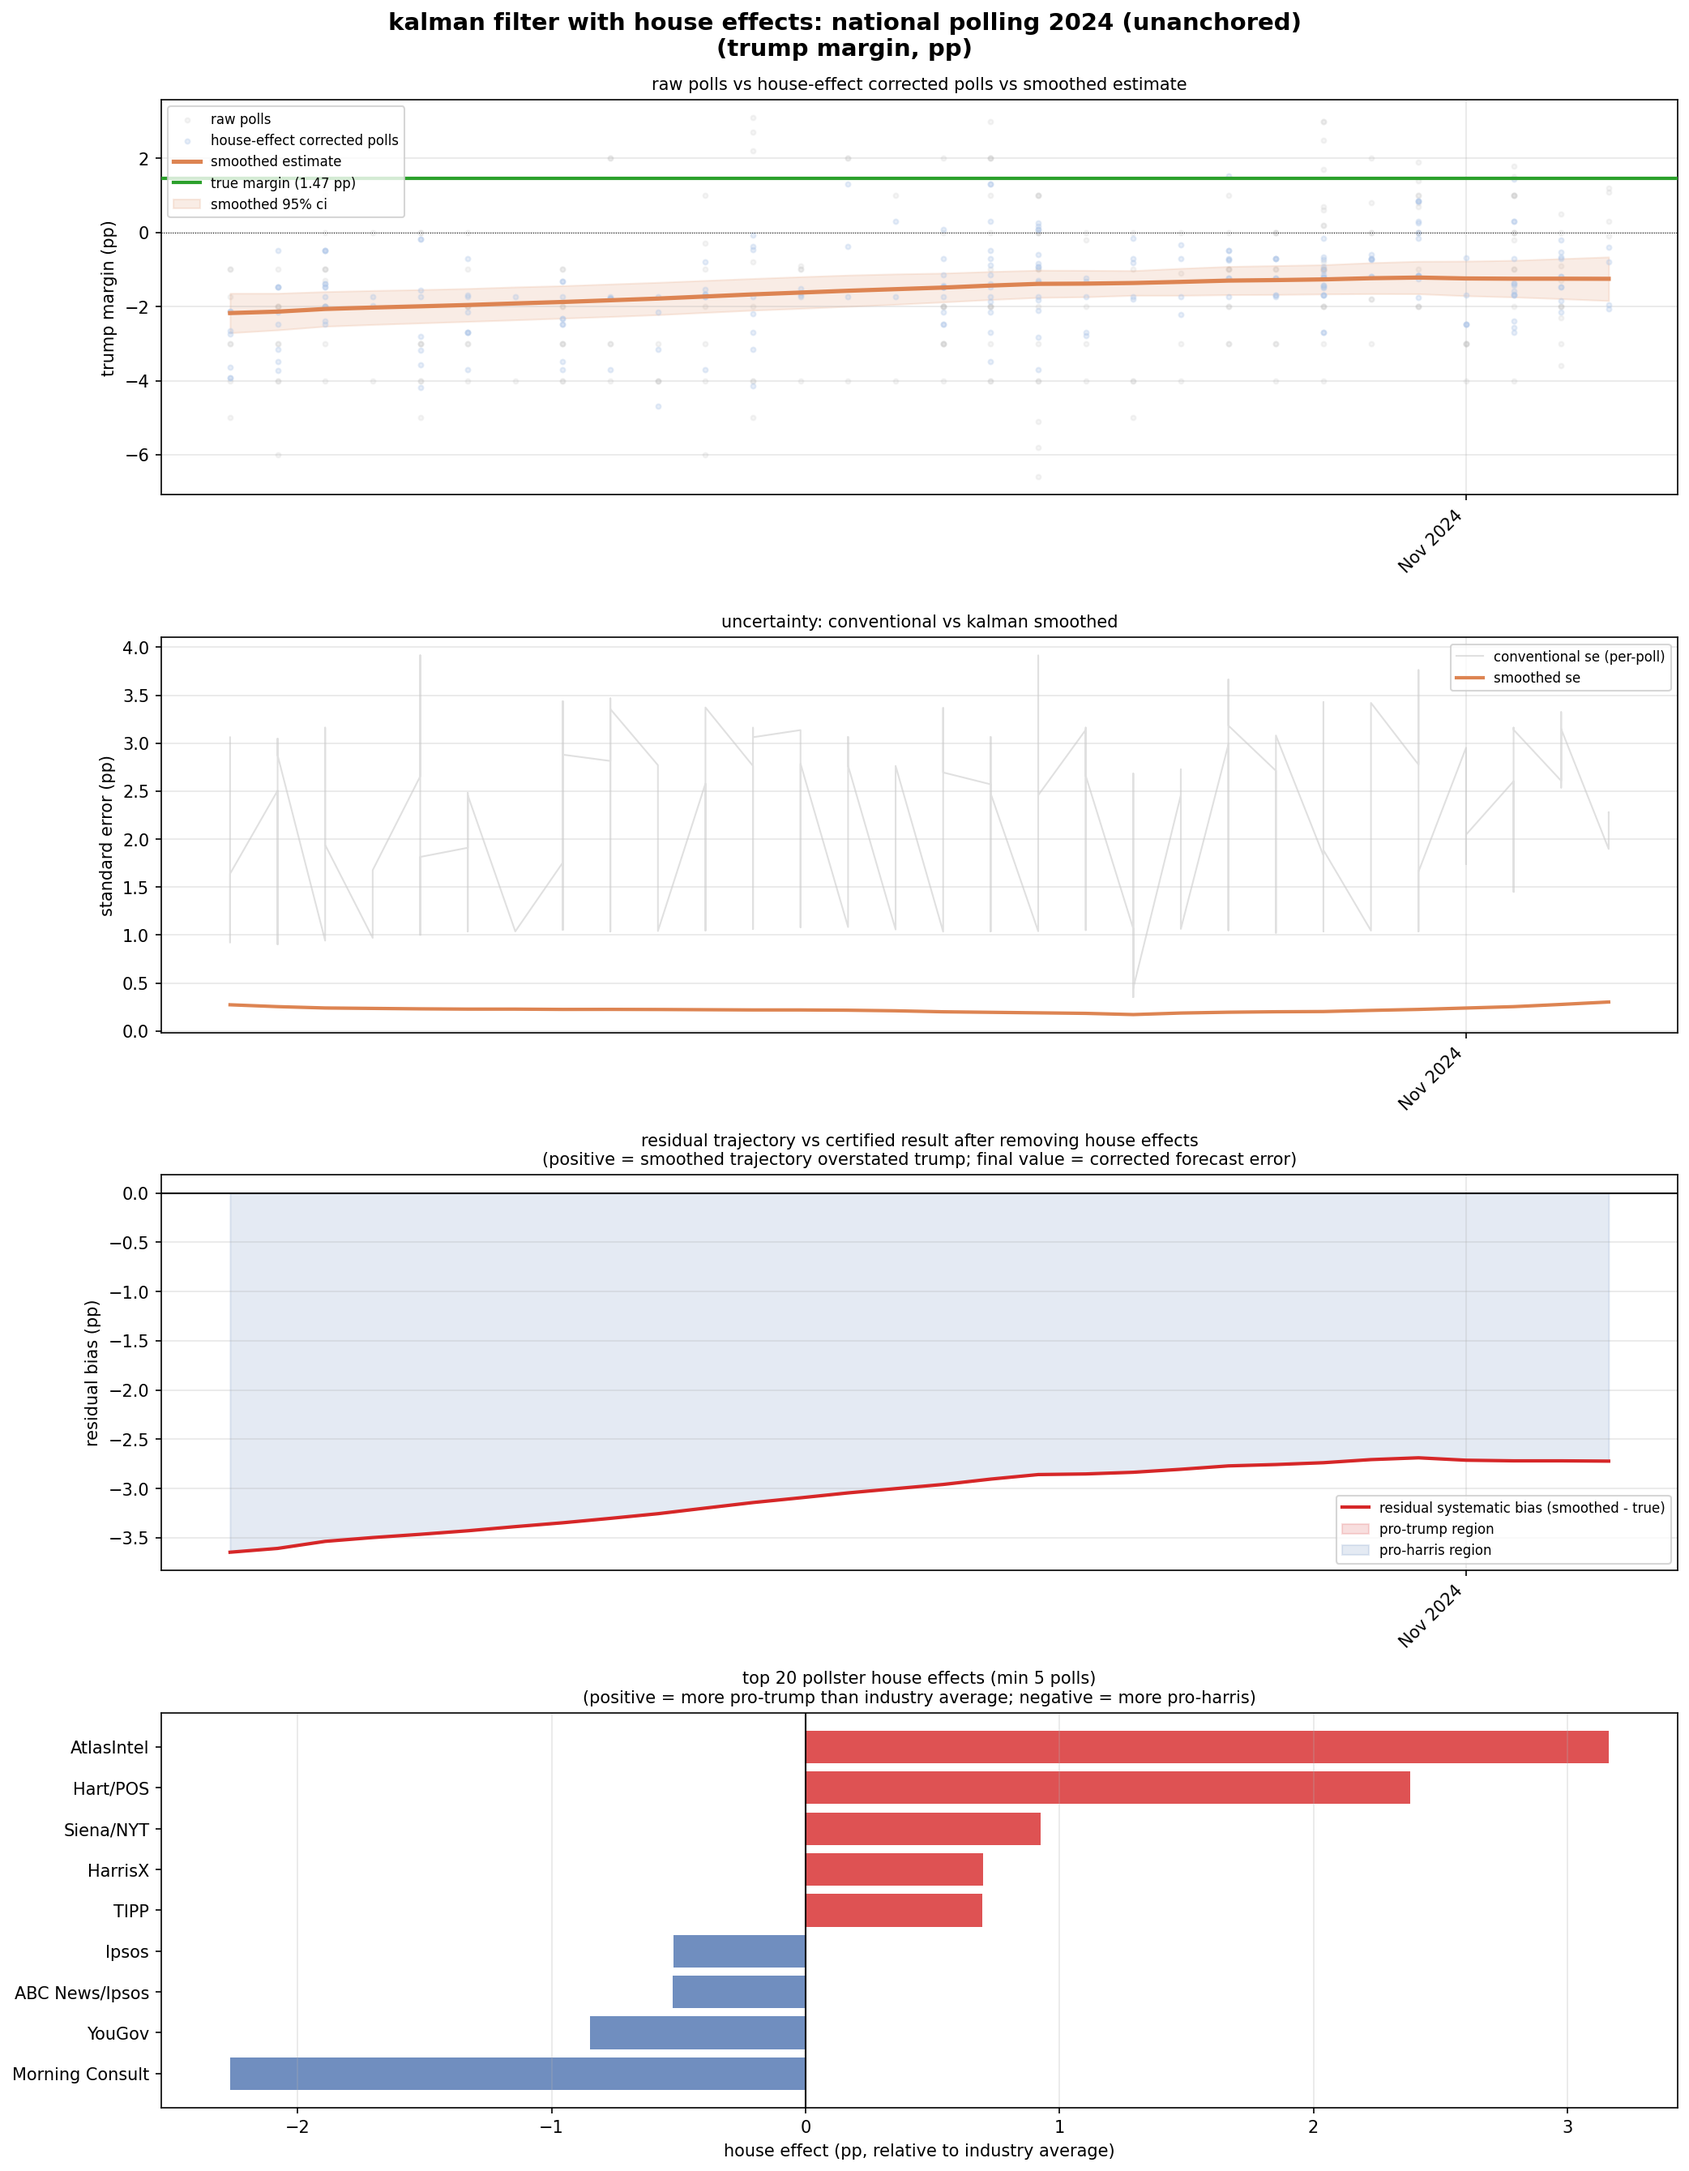
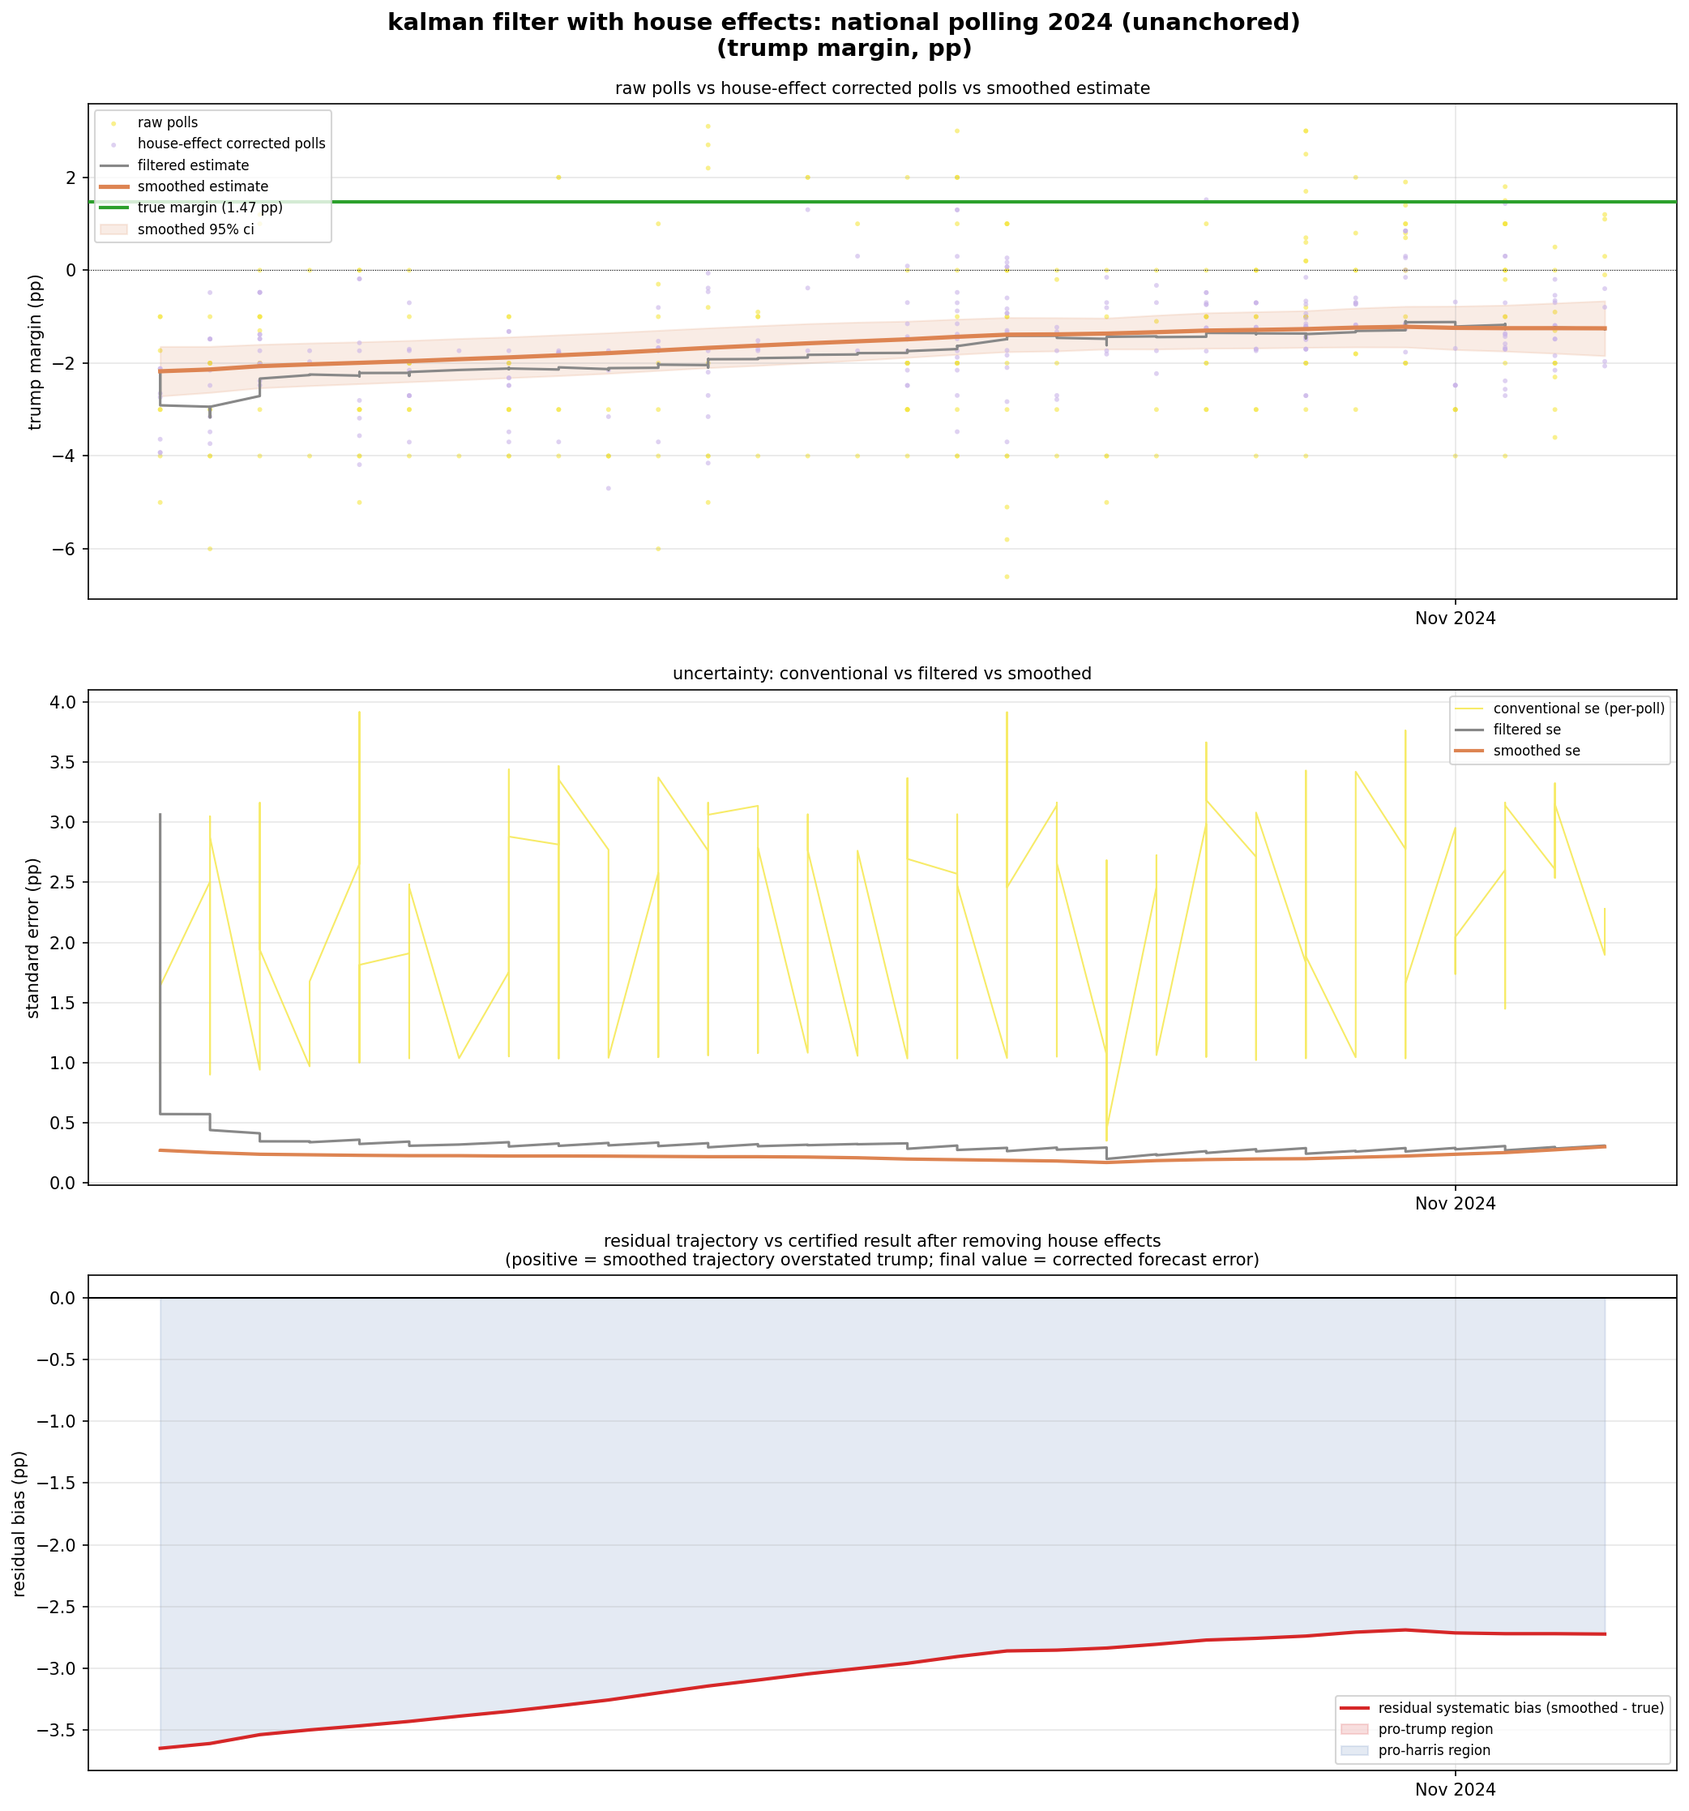
additional kalman graphs national

diff --git a/kalman_national_pollstereffects_harrisonly_analysis.py b/kalman_national_pollstereffects_harrisonly_analysis.py
@@ -582,38 +582,54 @@ def summarize_results(df: pd.DataFrame, house_effects_df: pd.DataFrame,
 def plot_results(df: pd.DataFrame, house_effects_df: pd.DataFrame,
                  anchored: bool = True, save_path: str = None) -> None:
     """
-    four-panel figure:
-      panel 1: raw polls, corrected polls, smoothed estimate, true margin
-      panel 2: standard errors — conventional vs smoothed
-      panel 3: residual systematic bias over time (after house effects removed)
-      panel 4: top 20 house effects by absolute size (bar chart)
+    two separate figures:
+      figure 1 (three panels): raw polls, corrected polls, smoothed + filtered estimates,
+                               standard errors, residual systematic bias
+      figure 2 (one panel):   top 20 house effects by absolute size (bar chart)
+
+    changes from prior version:
+      - filtered line added to panels 1 and 2 as a dotted line
+      - raw polls colored pale yellow, house-effect corrected polls colored pale purple
+      - x-axis labels show every month, horizontal (not rotated)
+      - house effects panel saved as a separate figure
     """
     results = df[df['pollster_id'] != -1].copy()
     true_margin = results['true_margin'].iloc[0]
 
-    fig, axes = plt.subplots(4, 1, figsize=(14, 18), sharex=False)
     mode_label = "anchored" if anchored else "unanchored"
+
+    colors = {
+        'raw':      '#f5e642',   # pale yellow for raw polls
+        'corrected':'#c9b3e8',   # pale purple for corrected polls
+        'filtered': '#888888',   # medium gray for filtered line
+        'smoothed': '#DD8452',   # orange for smoothed
+        'true':     '#2ca02c',   # green for true margin
+        'bias':     '#d62728',   # red for bias
+    }
+
+    dates = results['end_date']
+
+    ########################################################################
+    # figure 1: three-panel main figure
+    ########################################################################
+    fig, axes = plt.subplots(3, 1, figsize=(14, 15), sharex=False)
     fig.suptitle(
         f'kalman filter with house effects: national polling 2024 ({mode_label})\n(trump margin, pp)',
         fontsize=14, fontweight='bold', y=0.99
     )
 
-    dates  = results['end_date']
-    colors = {
-        'raw':      '#cccccc',
-        'corrected':'#aec6e8',
-        'smoothed': '#DD8452',
-        'true':     '#2ca02c',
-        'bias':     '#d62728',
-    }
-
-    # panel 1: raw polls, corrected polls, smoothed, true
+    # panel 1: raw polls, corrected polls, filtered (dotted), smoothed, true
     ax1 = axes[0]
     ax1.scatter(dates, results['poll_margin'],
-                color=colors['raw'], alpha=0.2, s=8, label='raw polls', zorder=1)
+                color=colors['raw'], alpha=0.6, s=8, label='raw polls',
+                edgecolors='none', zorder=1)
     ax1.scatter(dates, results['corrected_margin'],
-                color=colors['corrected'], alpha=0.3, s=8,
-                label='house-effect corrected polls', zorder=2)
+                color=colors['corrected'], alpha=0.6, s=8,
+                label='house-effect corrected polls',
+                edgecolors='none', zorder=2)
+    ax1.plot(dates, results['filtered'],
+             color=colors['filtered'], linewidth=1.5, linestyle='-',
+             label='filtered estimate', zorder=3)
     ax1.plot(dates, results['smoothed'],
              color=colors['smoothed'], linewidth=2.5,
              label='smoothed estimate', zorder=4)
@@ -629,26 +645,28 @@ def plot_results(df: pd.DataFrame, house_effects_df: pd.DataFrame,
     ax1.set_title('raw polls vs house-effect corrected polls vs smoothed estimate', fontsize=10)
     ax1.grid(True, alpha=0.3)
     ax1.xaxis.set_major_formatter(mdates.DateFormatter('%b %Y'))
-    ax1.xaxis.set_major_locator(mdates.MonthLocator(interval=2))
-    plt.setp(ax1.xaxis.get_majorticklabels(), rotation=45, ha='right')
+    ax1.xaxis.set_major_locator(mdates.MonthLocator(interval=1))
+    plt.setp(ax1.xaxis.get_majorticklabels(), rotation=0, ha='center')
 
-    # panel 2: standard errors
+    # panel 2: standard errors — conventional, filtered, smoothed
     ax2 = axes[1]
     conv_se = results['sampling_var'].apply(np.sqrt)
-    ax2.plot(dates, conv_se, color=colors['raw'], linewidth=1, alpha=0.6,
+    ax2.plot(dates, conv_se, color=colors['raw'], linewidth=1, alpha=0.8,
              label='conventional se (per-poll)')
+    ax2.plot(dates, results['filtered_se'],
+             color=colors['filtered'], linewidth=1.5, linestyle='-',
+             label='filtered se')
     ax2.plot(dates, results['smoothed_se'], color=colors['smoothed'], linewidth=2,
              label='smoothed se')
     ax2.set_ylabel('standard error (pp)', fontsize=10)
     ax2.legend(fontsize=8)
-    ax2.set_title('uncertainty: conventional vs kalman smoothed', fontsize=10)
+    ax2.set_title('uncertainty: conventional vs filtered vs smoothed', fontsize=10)
     ax2.grid(True, alpha=0.3)
     ax2.xaxis.set_major_formatter(mdates.DateFormatter('%b %Y'))
-    ax2.xaxis.set_major_locator(mdates.MonthLocator(interval=2))
-    plt.setp(ax2.xaxis.get_majorticklabels(), rotation=45, ha='right')
+    ax2.xaxis.set_major_locator(mdates.MonthLocator(interval=1))
+    plt.setp(ax2.xaxis.get_majorticklabels(), rotation=0, ha='center')
 
-    # panel 3: residual systematic bias (the industry-wide component after house effects removed)
-    # this is the bias that no individual pollster correction can fix — it's shared by all
+    # panel 3: residual systematic bias
     ax3 = axes[2]
     ax3.plot(dates, results['residual_systematic_bias'],
              color=colors['bias'], linewidth=2,
@@ -676,20 +694,32 @@ def plot_results(df: pd.DataFrame, house_effects_df: pd.DataFrame,
         )
     ax3.grid(True, alpha=0.3)
     ax3.xaxis.set_major_formatter(mdates.DateFormatter('%b %Y'))
-    ax3.xaxis.set_major_locator(mdates.MonthLocator(interval=2))
-    plt.setp(ax3.xaxis.get_majorticklabels(), rotation=45, ha='right')
+    ax3.xaxis.set_major_locator(mdates.MonthLocator(interval=1))
+    plt.setp(ax3.xaxis.get_majorticklabels(), rotation=0, ha='center')
 
-    # panel 4: house effects bar chart (top 20 by absolute size, min 5 polls)
-    # positive = pollster systematically overstates trump relative to industry average
-    # negative = pollster systematically overstates harris relative to industry average
-    ax4 = axes[3]
-    ax4.sharex = None  # this panel has its own x-axis (pollster names, not dates)
+    plt.tight_layout()
+
+    if save_path:
+        plt.savefig(save_path, dpi=150, bbox_inches='tight')
+        print(f"\nmain figure saved to: {save_path}")
+
+    plt.close()
+
+    ########################################################################
+    # figure 2: house effects bar chart (separate file)
+    ########################################################################
     he_plot = (house_effects_df[house_effects_df['n_polls'] >= 5]
                .copy()
                .assign(abs_he=lambda x: x['house_effect'].abs())
                .nlargest(20, 'abs_he')
                .sort_values('house_effect', ascending=True))
     bar_colors = [colors['bias'] if v > 0 else '#4C72B0' for v in he_plot['house_effect']]
+
+    fig2, ax4 = plt.subplots(figsize=(10, 8))
+    fig2.suptitle(
+        f'pollster house effects: national polling 2024 ({mode_label})',
+        fontsize=13, fontweight='bold'
+    )
     ax4.barh(he_plot['pollster'], he_plot['house_effect'], color=bar_colors, alpha=0.8)
     ax4.axvline(0, color='black', linewidth=1.0)
     ax4.set_xlabel('house effect (pp, relative to industry average)', fontsize=10)
@@ -703,12 +733,79 @@ def plot_results(df: pd.DataFrame, house_effects_df: pd.DataFrame,
     plt.tight_layout()
 
     if save_path:
-        plt.savefig(save_path, dpi=150, bbox_inches='tight')
-        print(f"\nfigure saved to: {save_path}")
+        he_save_path = save_path.replace('.png', '_house_effects.png')
+        plt.savefig(he_save_path, dpi=150, bbox_inches='tight')
+        print(f"house effects figure saved to: {he_save_path}")
 
-    #plt.show()
     plt.close()
 
+########################################################################################
+######################### Single-panel plot (107-day window only) ######################
+########################################################################################
+########################################################################################
+######################### Single-panel plot (107-day window only) ######################
+########################################################################################
+def plot_panel1_only(df: pd.DataFrame, anchored: bool = True, save_path: str = None) -> None:
+    """
+    standalone version of panel 1 only: raw polls, corrected polls,
+    filtered estimate (dotted), smoothed estimate, and true margin.
+    produced only for the 107-day window.
+    """
+    results = df[df['pollster_id'] != -1].copy()
+    true_margin = results['true_margin'].iloc[0]
+    mode_label = "anchored" if anchored else "unanchored"
+
+    colors = {
+        'raw':      '#f5e642',   # pale yellow for raw polls
+        'corrected':'#c9b3e8',   # pale purple for corrected polls
+        'filtered': '#888888',   # medium gray for filtered line
+        'smoothed': '#DD8452',   # orange for smoothed
+        'true':     '#2ca02c',   # green for true margin
+    }
+
+    dates = results['end_date']
+
+    fig, ax = plt.subplots(figsize=(14, 6))
+    fig.suptitle(
+        f'National Pollster-Adjusted Anchored Trump Margin Trajectory',
+        fontsize=14, fontweight='bold'
+    )
+
+    ax.scatter(dates, results['poll_margin'],
+               color=colors['raw'], alpha=0.6, s=8, label='RAW POLLS',
+               edgecolors='none', zorder=1)
+    ax.scatter(dates, results['corrected_margin'],
+               color=colors['corrected'], alpha=0.6, s=8,
+               label='HOUSE-EFFECT CORRECTED POLLS',
+               edgecolors='none', zorder=2)
+    ax.plot(dates, results['filtered'],
+            color=colors['filtered'], linewidth=1.0, linestyle='-',
+            label='FILTERED ESTIMATE', zorder=3)
+    ax.plot(dates, results['smoothed'],
+            color=colors['smoothed'], linewidth=2.5,
+            label='SMOOTHED ESTIMATE', zorder=4)
+    ax.axhline(true_margin, color=colors['true'], linewidth=2,
+               label=f'TRUE MARGIN ({true_margin:.2f} PP)', zorder=5)
+    ax.fill_between(dates,
+                    results['smoothed'] - 1.96 * results['smoothed_se'],
+                    results['smoothed'] + 1.96 * results['smoothed_se'],
+                    color=colors['smoothed'], alpha=0.15, label='SMOOTHED 95% CI')
+    ax.axhline(0, color='black', linewidth=0.5, linestyle=':')
+    ax.set_ylabel('trump margin (pp)', fontsize=10)
+    ax.set_ylim(-8, 6)
+    ax.legend(loc='upper right', fontsize=8)
+    ax.grid(True, alpha=0.3)
+    ax.xaxis.set_major_formatter(mdates.DateFormatter('%b %Y'))
+    ax.xaxis.set_major_locator(mdates.MonthLocator(interval=1))
+    plt.setp(ax.xaxis.get_majorticklabels(), rotation=0, ha='center')
+
+    plt.tight_layout()
+
+    if save_path:
+        plt.savefig(save_path, dpi=150, bbox_inches='tight')
+        print(f"\npanel 1 figure saved to: {save_path}")
+
+    plt.close()
 
 ########################################################################################
 ######################### Export results ###############################################
@@ -795,6 +892,12 @@ if __name__ == '__main__':
             plot_results(
                 df, house_effects_df, anchored=anchor,
                 save_path=f'figures/kalman_he_{mode_label}_{window_label}.png'
+            )
+
+            if days_before == 107:
+                plot_panel1_only(
+                df, anchored=anchor,
+                save_path=f'figures/kalman_he_{mode_label}_last_107_days_panel1a.png'
             )
 
             export_results(
